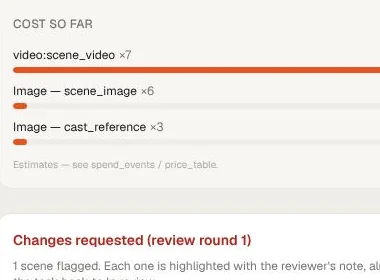
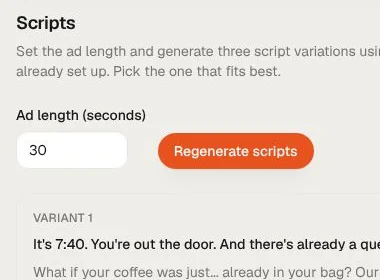
Marketing site: hero ends on One tab, keyboard-reachable product switcher, 1:1 screen crops, phone window fix
Claude-Session: https://claude.ai/code/session_015w9yN8UgqGS4EoxKmtGgF8

Changed region(s): [[0.0289, 0.1429, 1.0, 0.6286], [0.0289, 0.7429, 1.0, 1.0], [0.0289, 0.0571, 0.2605, 0.1143]]

diff --git a/scrollcraft/builds/autocut-studio/index.html b/scrollcraft/builds/autocut-studio/index.html
@@ -57,10 +57,10 @@
     <div class="hero__head">
       <h1 class="hero__title"><span class="hero__l1">One ad.</span> <span class="hero__l2">Six tabs.</span></h1>
       <div class="hero__side">
-        <p class="hero__lede">That is how agency editors make a video ad today. AutoCut Engine closes five of those tabs: scripts, prompts, scene images and videos, review and tasks, for every brand you run.</p>
+        <p class="hero__lede">That is how agency editors make a video ad today. AutoCut Engine pulls that work into one tab: scripts, prompts, scene images and videos, review and tasks, for every brand you run.</p>
         <div class="hero__cta">
           <a class="btn btn--ink btn--lg" href="#access" data-fill><span class="btn__fill" aria-hidden="true"></span><span class="btn__label">Request access</span></a>
-          <p class="hero__count" aria-live="polite"><span class="hero__count-n" data-count>6</span> <span data-count-word>tabs</span> open</p>
+          <p class="hero__count" aria-live="polite"><span class="hero__count-n" data-count>7</span> <span data-count-word>tabs</span> open</p>
         </div>
       </div>
     </div>
@@ -134,7 +134,7 @@
           </div>
         </div>
         <div class="pane pane--ace" data-pane="6">
-          <img src="/assets/shots/storyboard-760.webp" alt="" width="760" height="500" loading="lazy" decoding="async">
+          <img src="/assets/shots/ace-1000.webp" alt="" width="1000" height="560" loading="lazy" decoding="async">
         </div>
       </div>
     </div>
@@ -162,16 +162,16 @@
     <p class="product__note">Real screens from the studio, with a demo agency.</p>
   </div>
   <div class="win win--app" data-reveal="up">
-    <div class="win__strip" aria-hidden="true"><div class="tab is-active tab--ace"><i class="tab__ico tab__ico--ace"></i><span class="tab__name"><span data-app-tab>Brief</span> · Northbeam Cold Brew</span></div></div>
-    <div class="win__bar" aria-hidden="true"><span class="win__url">studio.autocutengine.app/<span data-app-url>ads/commute-spot/brief</span></span></div>
+    <div class="win__strip" aria-hidden="true"><div class="tab is-active tab--ace"><i class="tab__ico tab__ico--ace"></i><span class="tab__name"><span data-app-tab>Scripts</span> · Northbeam Cold Brew</span></div></div>
+    <div class="win__bar" aria-hidden="true"><span class="win__url">studio.autocutengine.app/<span data-app-url>ads/commute-spot/scripts</span></span></div>
     <div class="app">
       <ul class="app__list" data-app>
       <li class="app__item">
-        <button class="app__btn" type="button" aria-pressed="true" data-shot="script" data-alt="The brief step of an ad in AutoCut, with the running cost and a change request" data-tab-name="Brief" data-path="ads/commute-spot/brief">
+        <button class="app__btn" type="button" aria-pressed="true" data-shot="script" data-alt="The scripts step of an ad in AutoCut: ad length, Regenerate scripts and the first script variant" data-tab-name="Scripts" data-path="ads/commute-spot/scripts">
           <span class="app__title">Brief to scripts</span>
           <span class="app__text">Fill in the brief once. Claude drafts script variants in the brand’s voice, with its products, audience and rules already loaded.</span>
         </button>
-        <img class="app__thumb" src="/assets/shots/script-380.webp" alt="The brief step of an ad in AutoCut, with the running cost and a change request" width="380" height="280" loading="lazy" decoding="async">
+        <img class="app__thumb" src="/assets/shots/script-380.webp" alt="The scripts step of an ad in AutoCut: ad length, Regenerate scripts and the first script variant" width="380" height="280" loading="lazy" decoding="async">
       </li>
       <li class="app__item">
         <button class="app__btn" type="button" aria-pressed="false" data-shot="storyboard" data-alt="A storyboard in AutoCut with numbered scenes, edit by chat and scene styles" data-tab-name="Storyboard" data-path="ads/commute-spot/storyboard">
@@ -210,7 +210,7 @@
       </li>
       </ul>
       <figure class="app__screen" aria-live="polite">
-        <img data-app-img src="/assets/shots/script-760.webp" alt="The brief step of an ad in AutoCut, with the running cost and a change request" width="760" height="500" loading="lazy" decoding="async">
+        <img data-app-img src="/assets/shots/script-950.webp" alt="The scripts step of an ad in AutoCut: ad length, Regenerate scripts and the first script variant" width="950" height="566" loading="lazy" decoding="async">
       </figure>
     </div>
   </div>

diff --git a/scrollcraft/builds/autocut-studio/site.css b/scrollcraft/builds/autocut-studio/site.css
@@ -59,7 +59,9 @@ html.lenis, html.lenis body { height: auto; }
 ::view-transition-group(browser) { animation-duration: 0.6s; animation-timing-function: var(--ease); }
 [data-vt='browser'] { view-transition-name: browser; }
 
-.motion [data-split], .motion [data-reveal] { visibility: hidden; }
+.motion [data-split] { visibility: hidden; }
+/* Opacity, not visibility: a revealed block stays in the tab order before it animates in. */
+.motion [data-reveal] { opacity: 0; }
 .split-line { padding-bottom: 0.1em; margin-bottom: -0.1em; }
 [data-split] > *, [data-split] > * > * { text-indent: 0; }
 [data-split] > :first-child, [data-split] > :first-child > :first-child { text-indent: inherit; }
@@ -109,7 +111,7 @@ html.lenis, html.lenis body { height: auto; }
 .hero__head { grid-column: 1 / -1; display: grid; grid-template-columns: subgrid; align-items: end; }
 .hero__title { grid-column: 1 / 9; font-family: var(--f-display); font-size: var(--t-mega); font-weight: 820; font-stretch: 116%; line-height: 0.84; letter-spacing: -0.055em; margin-left: -0.05em; }
 .hero__l1, .hero__l2 { display: block; white-space: nowrap; }
-.hero__l2 { color: var(--c-fg); }
+.hero__l2 { color: var(--c-fg); transform-origin: left center; }
 .hero__side { grid-column: 9 / -1; display: grid; gap: 1.4rem; padding-bottom: 0.6vw; }
 .hero__lede { color: var(--c-muted); max-width: 30rem; }
 .hero__cta { display: flex; align-items: center; gap: 1.25rem; flex-wrap: wrap; }
@@ -117,7 +119,7 @@ html.lenis, html.lenis body { height: auto; }
 .hero__count-n { display: inline-grid; place-items: center; min-width: 1.7em; height: 1.7em; margin-right: 0.15em; border: 1.5px solid currentColor; border-radius: 6px; color: var(--c-fg); font-weight: 600; }
 
 /* The browser window */
-.win { grid-column: 1 / 9; min-width: 0; min-height: 0; display: grid; grid-template-rows: auto auto minmax(0, 1fr); background: var(--c-surface); border-radius: var(--radius); box-shadow: var(--shadow); overflow: clip; }
+.win { grid-column: 1 / 9; min-width: 0; min-height: 0; display: grid; grid-template-columns: minmax(0, 1fr); grid-template-rows: auto auto minmax(0, 1fr); background: var(--c-surface); border-radius: var(--radius); box-shadow: var(--shadow); overflow: clip; }
 .win__strip { contain: layout paint; display: flex; align-items: flex-end; gap: 2px; padding: 0.55rem 0.55rem 0; background: var(--c-strip); overflow: clip; }
 .tab { position: relative; display: flex; align-items: center; gap: 0.5rem; flex: 0 1 11.5rem; min-width: 0; height: 2.35rem; padding: 0 0.6rem 0 0.75rem; border-radius: 8px 8px 0 0; font-size: 0.8rem; color: var(--c-muted); white-space: nowrap; overflow: clip; }
 .tab + .tab::before { content: ''; position: absolute; left: -1px; top: 0.7rem; bottom: 0.7rem; width: 1px; background: rgb(17 18 20 / 0.18); }
@@ -220,7 +222,7 @@ html:not(.motion) .ledger li::after { scale: 1; }
 .app__btn:focus-visible { outline-offset: -2px; }
 .app__thumb { display: none; }
 .app__screen { margin: 0; align-self: start; background: #f0eee9; overflow: clip; }
-.app__screen img { width: 100%; aspect-ratio: 760 / 500; object-fit: cover; object-position: left top; }
+.app__screen img { width: 100%; aspect-ratio: 950 / 566; object-fit: cover; object-position: left top; }
 
 /* How you start: screen on seven columns, steps on four. */
 .start { padding: 0 var(--gutter) 6rem; display: grid; grid-template-columns: repeat(12, minmax(0, 1fr)); column-gap: var(--gutter); align-items: start; }
@@ -281,6 +283,7 @@ html:not(.motion) .ledger li::after { scale: 1; }
 .lost .win { grid-column: auto; max-width: 52rem; height: 14rem; }
 .lost__title { font-family: var(--f-display); font-size: var(--t-xl); font-weight: 780; font-stretch: 112%; line-height: 0.95; letter-spacing: -0.04em; }
 .lost p { color: var(--c-muted); max-width: 32rem; }
+.lost .lost__tab { padding: clamp(1rem, 3vw, 2rem); font-family: var(--f-display); font-size: var(--t-m); font-weight: 640; color: var(--c-muted); }
 
 /* Phone: composed for 390 px. */
 @media (max-width: 900px) {

diff --git a/scrollcraft/builds/autocut-studio/site.js b/scrollcraft/builds/autocut-studio/site.js
@@ -57,16 +57,18 @@
     $$('[data-reveal]').forEach(function (el) {
       var kind = el.dataset.reveal || 'up';
       var isIntro = el.hasAttribute('data-intro');
-      var from = kind === 'fade' ? { autoAlpha: 0 } : kind === 'clip' ? { clipPath: 'inset(100% 0% 0% 0%)', autoAlpha: 1 } : { y: 56, autoAlpha: 0 };
+      var from = kind === 'fade' ? { opacity: 0 } : kind === 'clip' ? { clipPath: 'inset(100% 0% 0% 0%)', opacity: 1 } : { y: 56, opacity: 0 };
       gsap.set(el, { visibility: 'visible' });
       var t = gsap.fromTo(el, from, {
-        y: 0, autoAlpha: 1, clipPath: 'inset(0% 0% 0% 0%)',
+        y: 0, opacity: 1, clipPath: 'inset(0% 0% 0% 0%)',
         duration: kind === 'fade' ? 0.9 : 1.2, ease: EASE.out,
         delay: parseFloat(el.dataset.delay || '0'), paused: isIntro,
         scrollTrigger: isIntro ? undefined : { trigger: el, start: 'top 90%', once: true },
         clearProps: kind === 'clip' ? 'clipPath' : ''
       });
       if (isIntro) intro.add(function () { t.play(); }, 0);
+      // Keyboard users can reach a block before it scrolls in: show it at once.
+      el.addEventListener('focusin', function () { t.progress(1); }, { once: true });
     });
     return intro;
   }
@@ -83,6 +85,7 @@
   var spin = $('[data-spin]');
   var unread = $('[data-unread]');
   var load = $('[data-load]');
+  var title2 = $('.hero__l2');
   var STEPS = 6;
   var closed = 0;
   var unreadN = 3;
@@ -134,6 +137,15 @@
     if (urlEl) urlEl.textContent = URLS[n];
     if (spin) spin.classList.toggle('is-idle', n === STEPS);
     if (load) load.classList.toggle('is-idle', n === STEPS);
+    // The payoff: when the last tool tab shuts, the headline snaps shut too and reopens as one tab.
+    var word = n === STEPS ? 'One tab.' : 'Six tabs.';
+    if (title2 && motion && !instant && title2.textContent !== word) {
+      gsap.killTweensOf(title2);
+      gsap.timeline()
+        .to(title2, { scaleX: 0, opacity: 0, duration: 0.22, ease: 'power2.in' })
+        .add(function () { title2.textContent = word; })
+        .to(title2, { scaleX: 1, opacity: 1, duration: 0.5, ease: EASE.out });
+    }
   }
 
   if (hero && tabs.length) {
@@ -201,7 +213,7 @@
       appBtns.forEach(function (b) { b.setAttribute('aria-pressed', b === btn ? 'true' : 'false'); });
       var k = btn.dataset.shot;
       var swap = function () {
-        appImg.setAttribute('src', '/assets/shots/' + k + '-760.webp');
+        appImg.setAttribute('src', '/assets/shots/' + k + '-950.webp');
         appImg.setAttribute('alt', btn.dataset.alt || '');
         // The tab title and address follow the screen, like moving around inside the one tab.
         if (appTab) appTab.textContent = btn.dataset.tabName || '';
@@ -224,7 +236,7 @@
       }
     });
     // Warm the cache so the swap never shows an empty frame.
-    var warm = function () { appBtns.forEach(function (b) { var i = new Image(); i.src = '/assets/shots/' + b.dataset.shot + '-760.webp'; }); };
+    var warm = function () { appBtns.forEach(function (b) { var i = new Image(); i.src = '/assets/shots/' + b.dataset.shot + '-950.webp'; }); };
     if ('requestIdleCallback' in window) requestIdleCallback(warm); else setTimeout(warm, 1500);
   }
 

diff --git a/scrollcraft/builds/autocut-studio/404.html b/scrollcraft/builds/autocut-studio/404.html
@@ -31,7 +31,7 @@
   <div class="win" aria-hidden="true" data-vt="browser">
     <div class="win__strip"><div class="tab is-active"><i class="tab__ico"></i><span class="tab__name">New tab</span><b class="tab__x"></b></div></div>
     <div class="win__bar"><span class="win__url">autocutengine.app/404</span><i class="win__spin is-idle"></i></div>
-    <div class="win__body"></div>
+    <div class="win__body"><p class="lost__tab">This tab has nothing in it yet.</p></div>
   </div>
   <h1 class="lost__title">Nothing is open in this tab.</h1>
   <p>The page you asked for does not exist. Everything we have is on one page anyway.</p>
